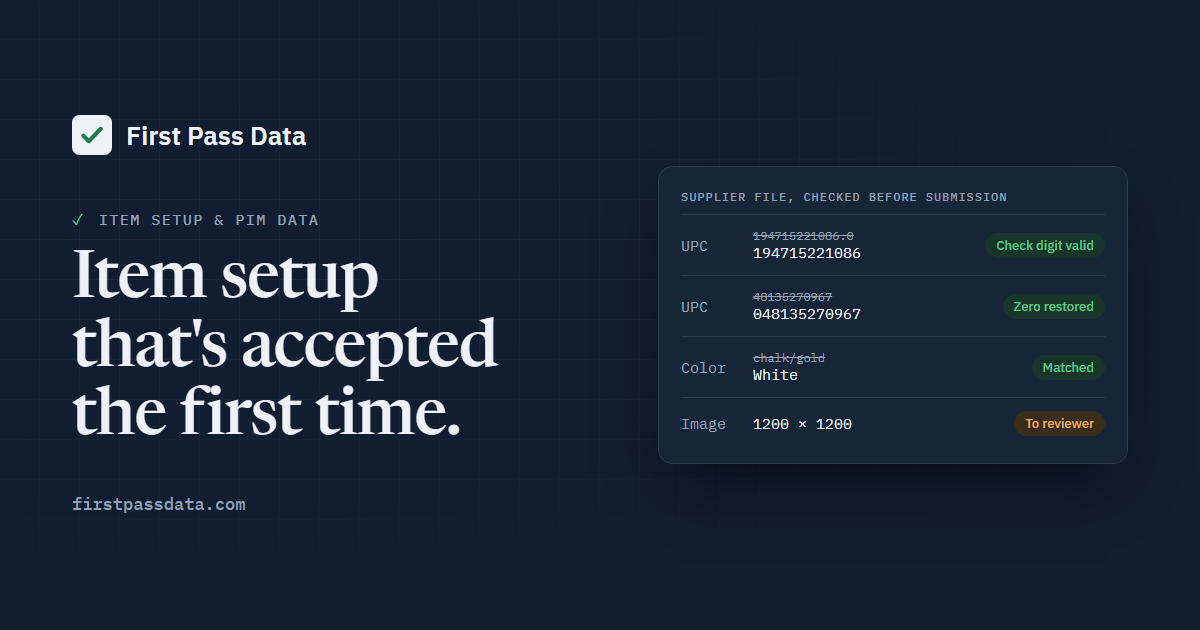
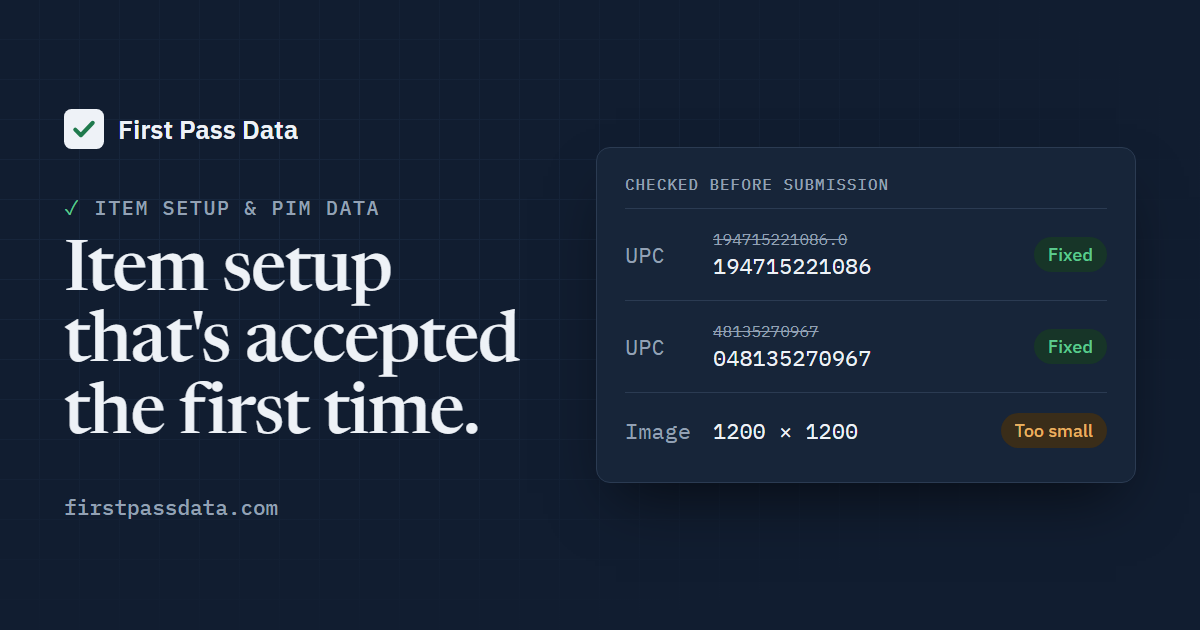
Larger, more legible social share card
Three rows with bigger type so the card reads at LinkedIn preview size;
version query on og:image so platforms fetch the new image.

diff --git a/privacy.html b/privacy.html
@@ -10,7 +10,7 @@
 <meta property="og:description" content="How First Pass Data handles your contact details, item files and photos: kept private, used only for your work, deleted when you ask.">
 <meta property="og:url" content="https://firstpassdata.com/privacy.html">
 <meta property="og:type" content="website">
-<meta property="og:image" content="https://firstpassdata.com/og-image.png">
+<meta property="og:image" content="https://firstpassdata.com/og-image.png?v=2">
 <meta property="og:image:width" content="1200">
 <meta property="og:image:height" content="630">
 <meta property="og:image:alt" content="First Pass Data: item setup that's accepted the first time.">

diff --git a/terms.html b/terms.html
@@ -10,7 +10,7 @@
 <meta property="og:description" content="How First Pass Data bills, takes payment, handles refunds and cancellations, and fixes its own mistakes free.">
 <meta property="og:url" content="https://firstpassdata.com/terms.html">
 <meta property="og:type" content="website">
-<meta property="og:image" content="https://firstpassdata.com/og-image.png">
+<meta property="og:image" content="https://firstpassdata.com/og-image.png?v=2">
 <meta property="og:image:width" content="1200">
 <meta property="og:image:height" content="630">
 <meta property="og:image:alt" content="First Pass Data: item setup that's accepted the first time.">

diff --git a/process.html b/process.html
@@ -10,7 +10,7 @@
 <meta property="og:description" content="The four-step process that turns your raw supplier file into an accepted item, plus what to send us first.">
 <meta property="og:url" content="https://firstpassdata.com/process.html">
 <meta property="og:type" content="website">
-<meta property="og:image" content="https://firstpassdata.com/og-image.png">
+<meta property="og:image" content="https://firstpassdata.com/og-image.png?v=2">
 <meta property="og:image:width" content="1200">
 <meta property="og:image:height" content="630">
 <meta property="og:image:alt" content="First Pass Data: item setup that's accepted the first time.">

diff --git a/services.html b/services.html
@@ -10,7 +10,7 @@
 <meta property="og:description" content="Item setup, data cleaning, exception review and digital asset prep for retail and exchange PIM systems.">
 <meta property="og:url" content="https://firstpassdata.com/services.html">
 <meta property="og:type" content="website">
-<meta property="og:image" content="https://firstpassdata.com/og-image.png">
+<meta property="og:image" content="https://firstpassdata.com/og-image.png?v=2">
 <meta property="og:image:width" content="1200">
 <meta property="og:image:height" content="630">
 <meta property="og:image:alt" content="First Pass Data: item setup that's accepted the first time.">

diff --git a/sample-report.html b/sample-report.html
@@ -10,7 +10,7 @@
 <meta property="og:description" content="What you receive with every file: every check, every change, and who made each decision.">
 <meta property="og:url" content="https://firstpassdata.com/sample-report.html">
 <meta property="og:type" content="website">
-<meta property="og:image" content="https://firstpassdata.com/og-image.png">
+<meta property="og:image" content="https://firstpassdata.com/og-image.png?v=2">
 <meta property="og:image:width" content="1200">
 <meta property="og:image:height" content="630">
 <meta property="og:image:alt" content="First Pass Data: item setup that's accepted the first time.">

diff --git a/index.html b/index.html
@@ -10,7 +10,7 @@
 <meta property="og:description" content="Item data prepared, checked by software and reviewed by a person before it reaches the buyer's system.">
 <meta property="og:url" content="https://firstpassdata.com/">
 <meta property="og:type" content="website">
-<meta property="og:image" content="https://firstpassdata.com/og-image.png">
+<meta property="og:image" content="https://firstpassdata.com/og-image.png?v=2">
 <meta property="og:image:width" content="1200">
 <meta property="og:image:height" content="630">
 <meta property="og:image:alt" content="First Pass Data: item setup that's accepted the first time.">

diff --git a/contact.html b/contact.html
@@ -10,7 +10,7 @@
 <meta property="og:description" content="Tell us how many styles you have and when they ship. We reply within one business day.">
 <meta property="og:url" content="https://firstpassdata.com/contact.html">
 <meta property="og:type" content="website">
-<meta property="og:image" content="https://firstpassdata.com/og-image.png">
+<meta property="og:image" content="https://firstpassdata.com/og-image.png?v=2">
 <meta property="og:image:width" content="1200">
 <meta property="og:image:height" content="630">
 <meta property="og:image:alt" content="First Pass Data: item setup that's accepted the first time.">

diff --git a/about.html b/about.html
@@ -10,7 +10,7 @@
 <meta property="og:description" content="Item setup is detail work with hard deadlines. We treat it as an engineering problem.">
 <meta property="og:url" content="https://firstpassdata.com/about.html">
 <meta property="og:type" content="website">
-<meta property="og:image" content="https://firstpassdata.com/og-image.png">
+<meta property="og:image" content="https://firstpassdata.com/og-image.png?v=2">
 <meta property="og:image:width" content="1200">
 <meta property="og:image:height" content="630">
 <meta property="og:image:alt" content="First Pass Data: item setup that's accepted the first time.">
